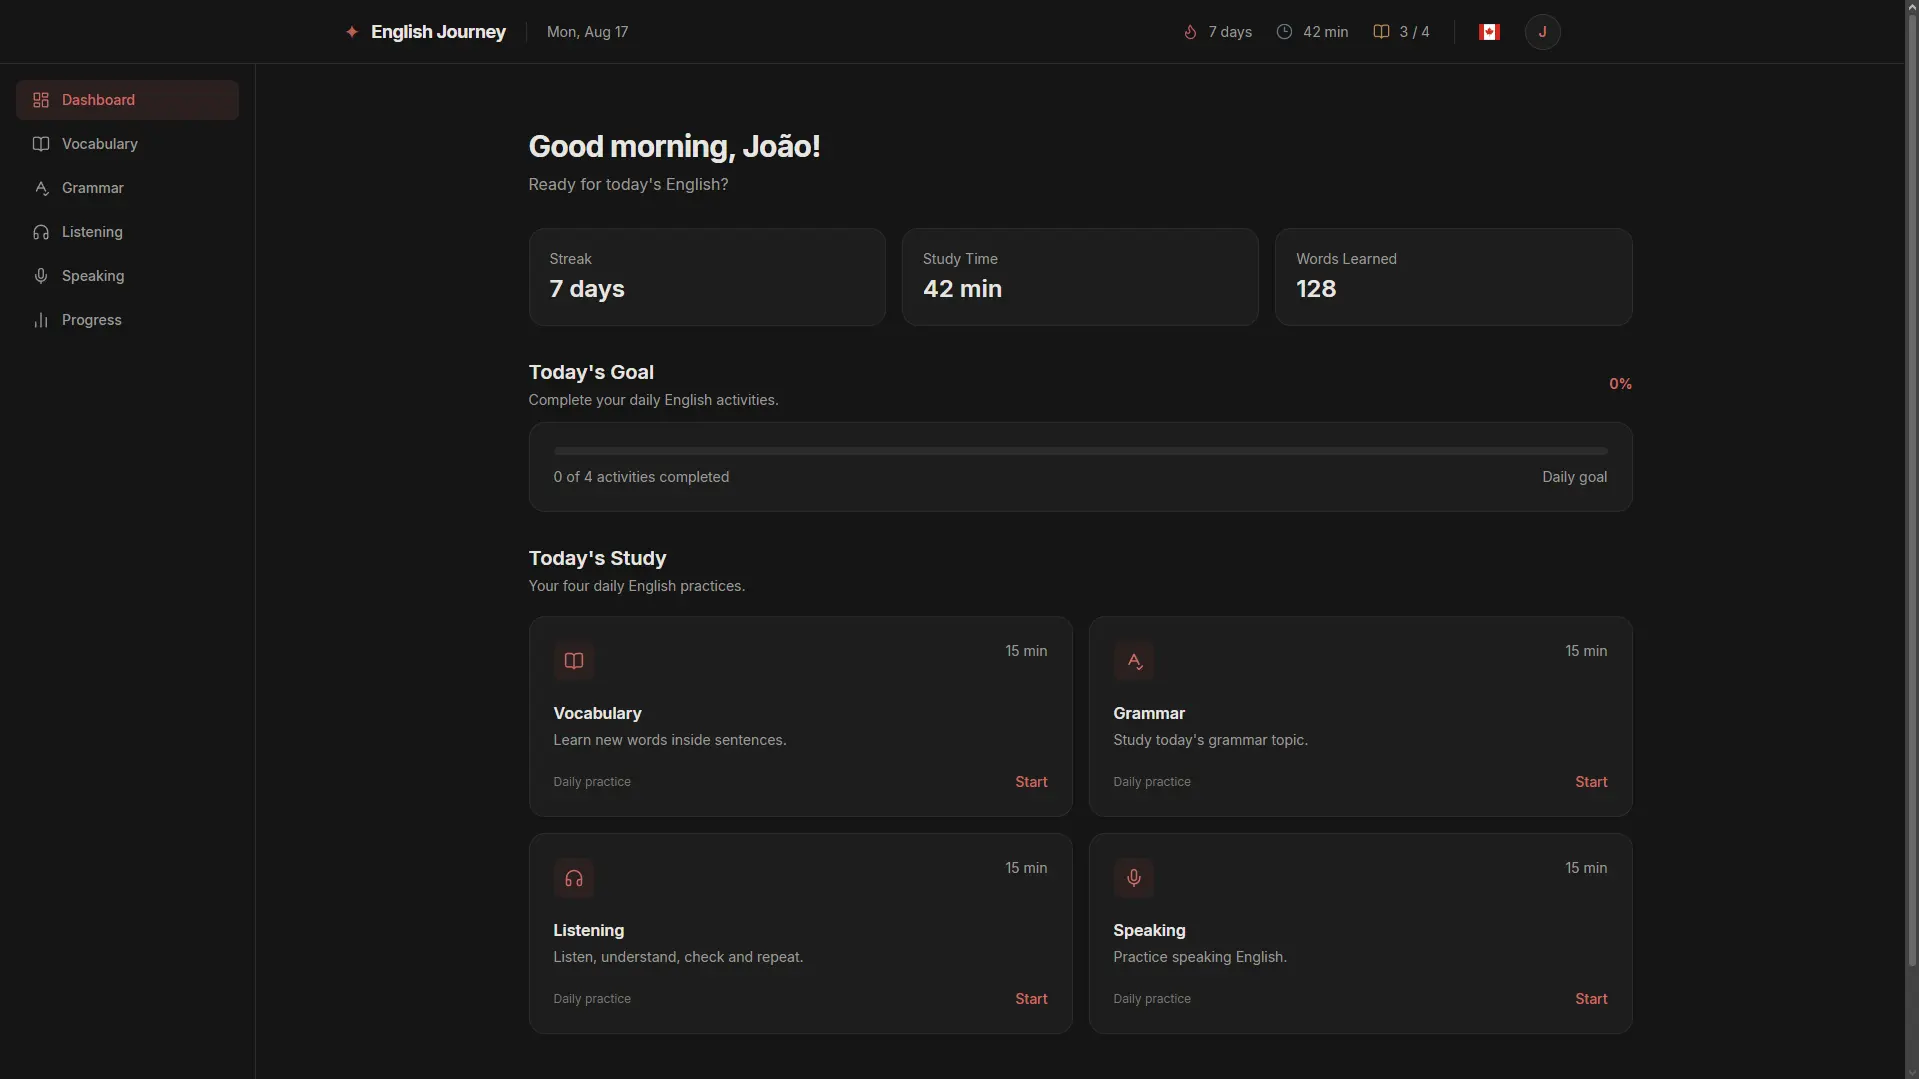
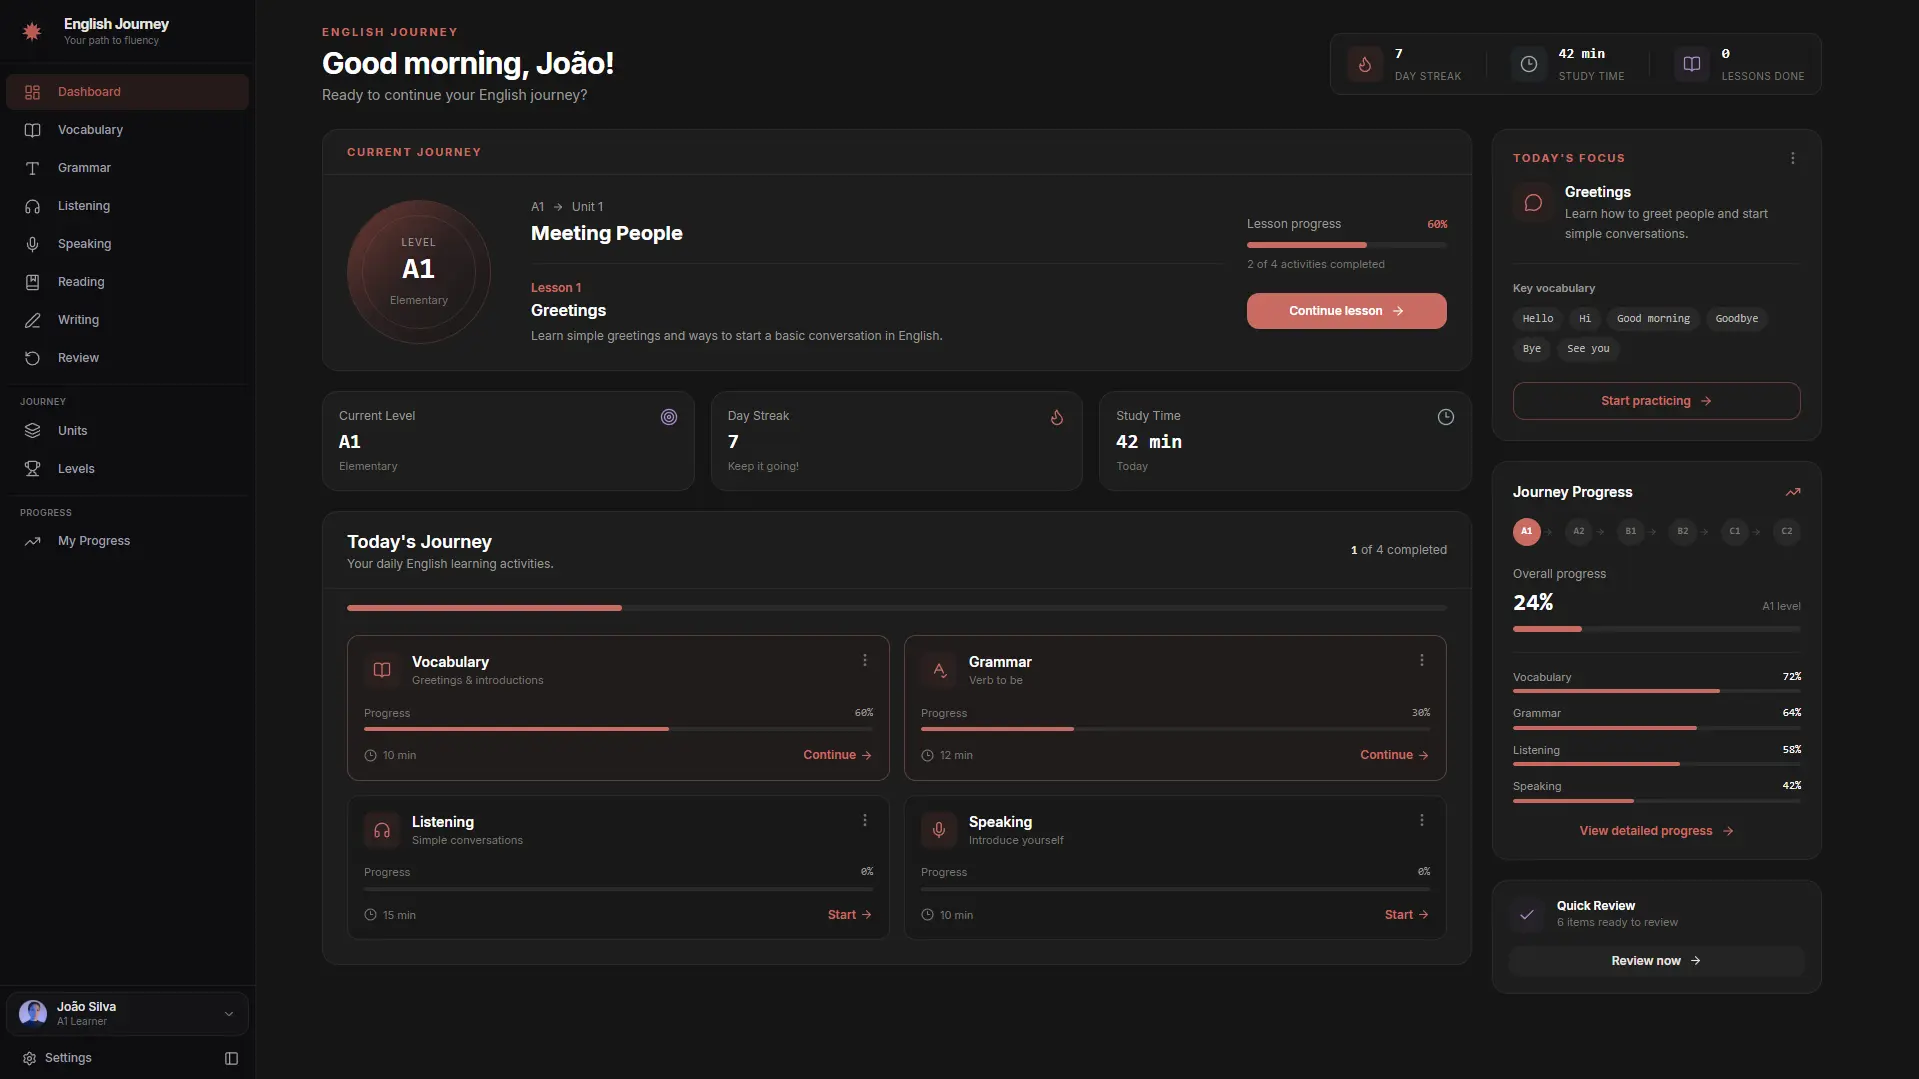
docs: update project README

diff --git a/src/components/Onboarding.tsx b/src/components/Onboarding.tsx
@@ -745,3 +745,4 @@ export default function Onboarding() {
 }
 
 /* fazer tratamento de empy */
+/* tipar esse tsx e remover o anule la em cima */

diff --git a/README.md b/README.md
@@ -29,11 +29,50 @@ A proposta é centralizar diferentes áreas do aprendizado em uma única platafo
 - Progress
 - Daily Study
 
-Atualmente, o projeto está em sua fase inicial, com foco na construção da interface, arquitetura e fundamentos da aplicação.
+Além das áreas de estudo, o projeto possui um sistema de **onboarding**, desenvolvido para conhecer o perfil e as necessidades de cada aluno antes de iniciar sua jornada.
+
+Durante o onboarding, o usuário informa:
+
+- Seu nível atual de inglês
+- Motivações para aprender inglês
+- Habilidades que deseja desenvolver
+- Tempo disponível para estudar
+- Frequência semanal de estudos
+- Nível de confiança em cada habilidade
+- Habilidades que deseja priorizar
+- Experiência anterior com inglês
+
+Essas informações são reunidas em um perfil estruturado que futuramente será utilizado para criar uma jornada de aprendizagem personalizada.
+
+Atualmente, o projeto está em sua fase inicial, com foco na construção da interface, arquitetura, experiência do usuário e fundamentos da aplicação.
 
 ---
 
 ## Features
+
+### Onboarding
+
+The onboarding is responsible for understanding the user's learning profile before starting the journey.
+
+It currently includes:
+
+- English level assessment
+- Learning motivations
+- Desired real-life abilities
+- Daily study time
+- Weekly study frequency
+- Speaking confidence
+- Listening confidence
+- Reading confidence
+- Writing confidence
+- Skill priorities
+- Previous English experience
+- Study experience duration
+- Final profile summary
+
+The onboarding collects these answers and generates a structured `journeyProfile` object containing the user's learning information.
+
+Future plans include using this profile to generate a personalized learning journey.
 
 ### Dashboard
 
@@ -135,6 +174,8 @@ Total recommended study time:
 
 The main goal is consistency rather than long study sessions.
 
+The learning experience will progressively evolve according to the user's level, goals, available study time and individual needs.
+
 ---
 
 ## Roadmap
@@ -154,29 +195,49 @@ The main goal is consistency rather than long study sessions.
 - [x] Listening page
 - [x] Speaking page
 - [x] Progress page
+- [x] Initial onboarding
+- [x] Multi-step onboarding flow
+- [x] User profile data collection
+- [x] Onboarding validation
+- [x] Learning profile summary
+- [x] `journeyProfile` object
 
-### Phase 2 — Application Logic
+### Phase 2 — Personalized Journey
 
-- [ ] Connect daily activities
+- [ ] Define learning journey structure
+- [ ] Define levels and progression
+- [ ] Connect onboarding profile to learning path
+- [ ] Generate initial learning plan
+- [ ] Create units and lessons
+- [ ] Connect daily activities to the learning path
 - [ ] Activity completion system
 - [ ] Real progress calculation
 - [ ] Study time tracking
+
+### Phase 3 — Learning Systems
+
 - [ ] Vocabulary system
+- [ ] Grammar lessons
 - [ ] Grammar exercises
 - [ ] Listening activities
 - [ ] Speaking recordings
+- [ ] Writing practice
+- [ ] Review system
+- [ ] Learning history
 
-### Phase 3 — Authentication and Data
+### Phase 4 — Authentication and Data
 
 - [ ] User registration
 - [ ] User login
 - [ ] Firebase Authentication
 - [ ] Firestore integration
 - [ ] User-specific progress
-- [ ] Study history
+- [ ] Persistent study history
 - [ ] Streak system
+- [ ] Persistent vocabulary
+- [ ] Persistent learning journey
 
-### Phase 4 — Intelligence
+### Phase 5 — Intelligence
 
 - [ ] Dictionary API
 - [ ] AI-assisted grammar explanations
@@ -184,6 +245,7 @@ The main goal is consistency rather than long study sessions.
 - [ ] AI speaking feedback
 - [ ] Personalized recommendations
 - [ ] Adaptive study plans
+- [ ] AI-assisted learning activities
 
 ---
 
@@ -211,21 +273,25 @@ Future technologies may include:
 
 ```text
 src/
+
 ├── components/
+
 │   ├── Header/
 │   └── Sidebar/
-│
+
 ├── layouts/
+
 │   └── Layout.tsx
-│
+
 ├── pages/
+
 │   ├── Dashboard/
 │   ├── Vocabulary/
 │   ├── Grammar/
 │   ├── Listening/
 │   ├── Speaking/
 │   └── Progress/
-│
+
 ├── App.tsx
 └── main.tsx
 ```
